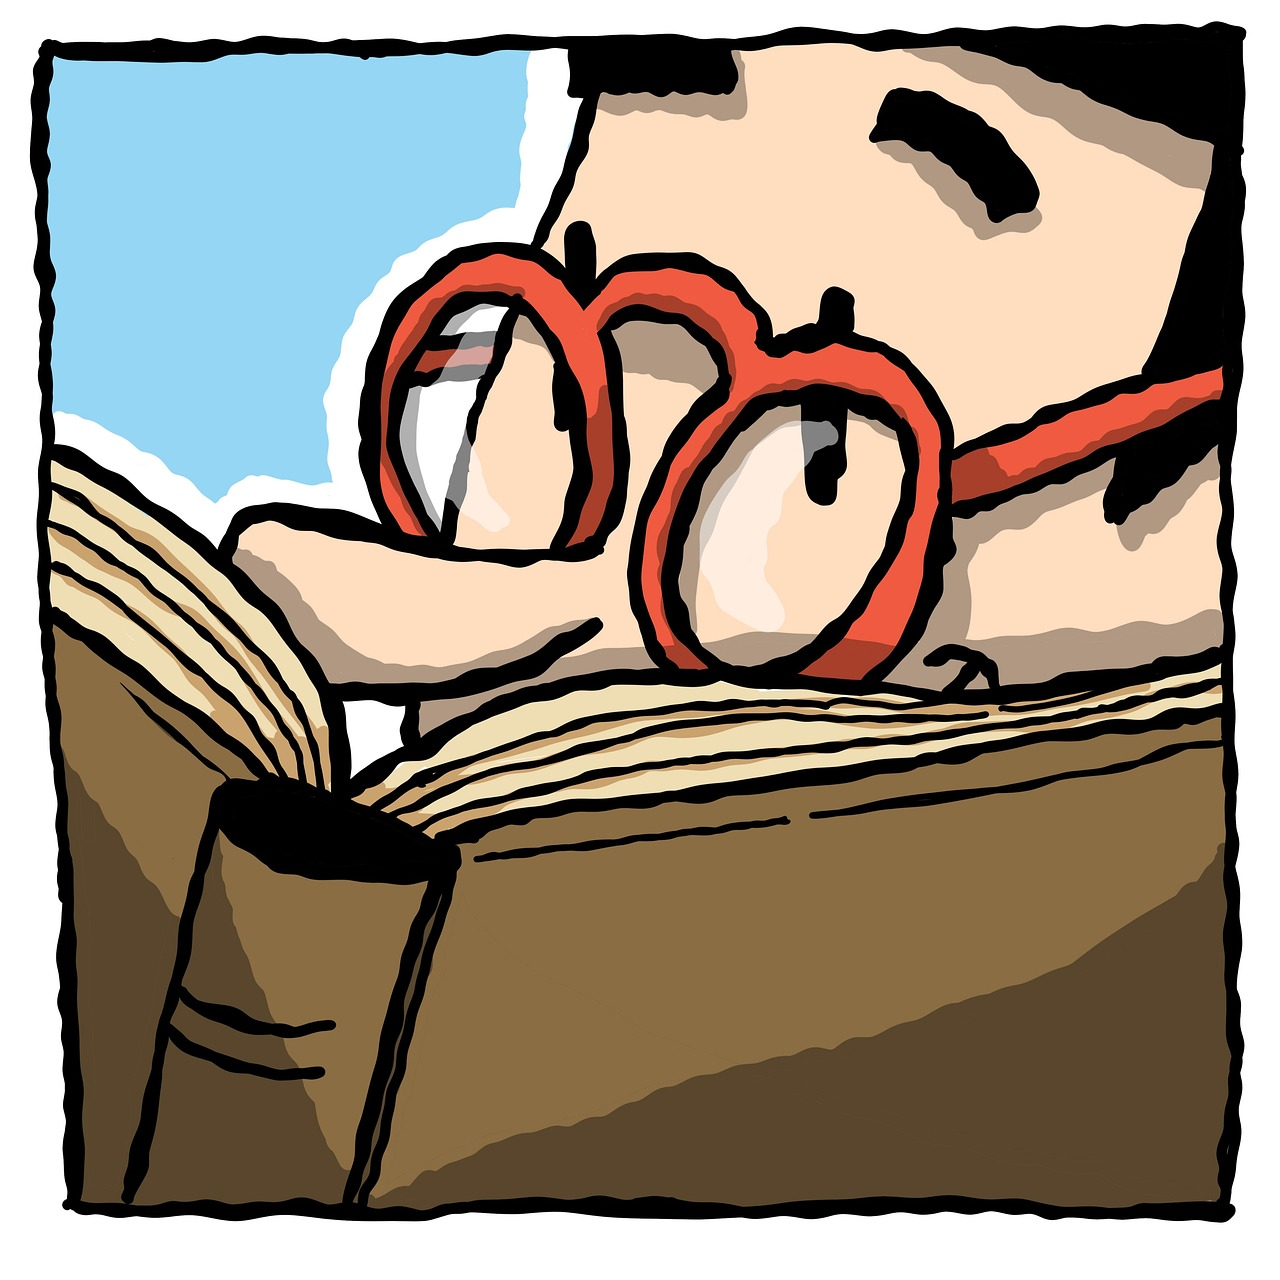
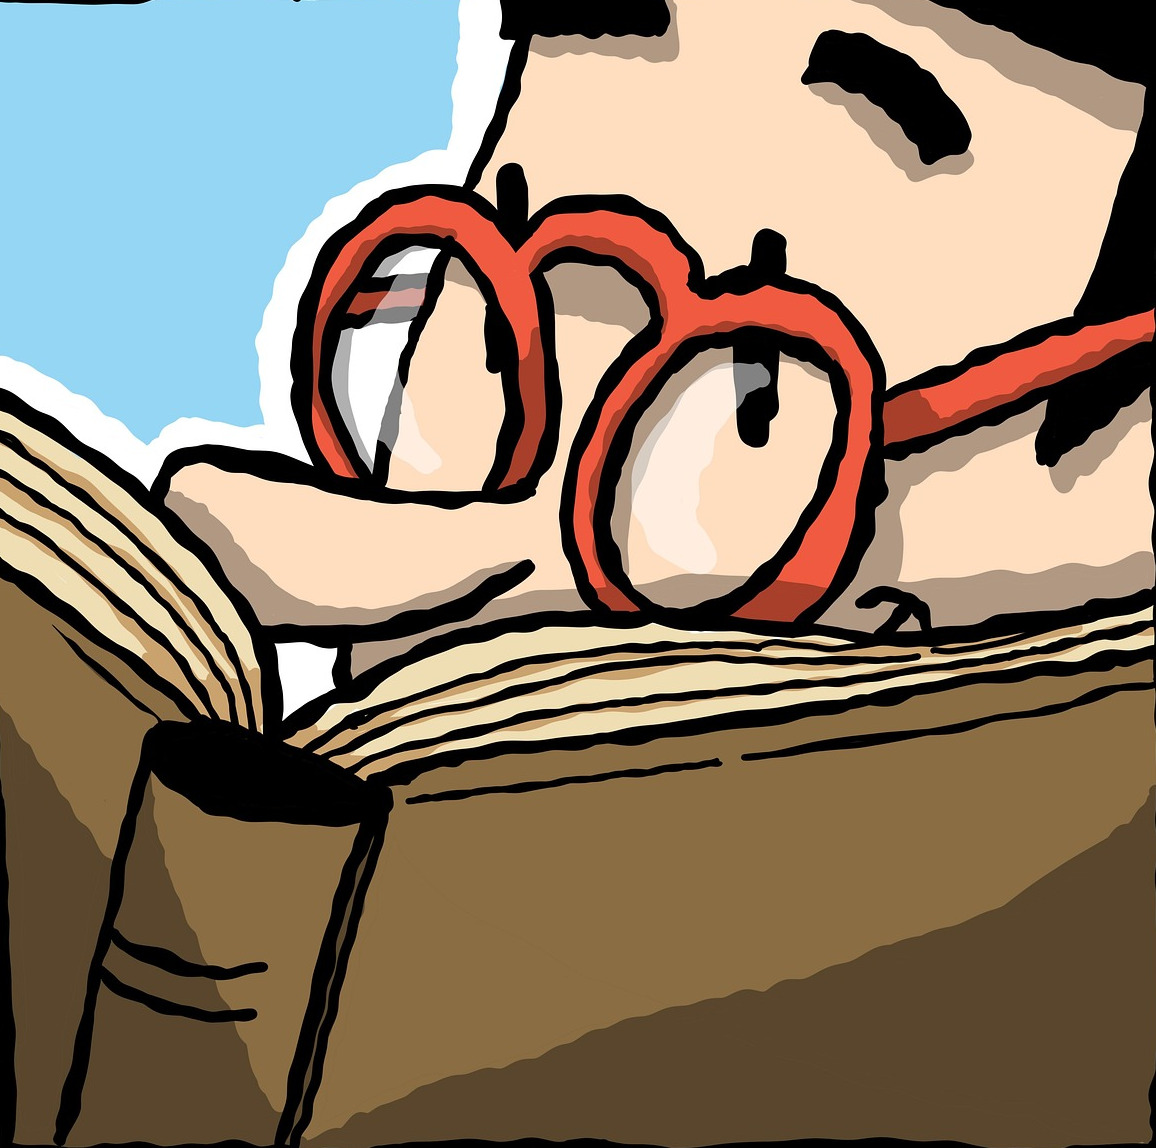
fix: css and image cropping for home/index page.
fixed page responsiveness as well.

diff --git a/public/styles.css b/public/styles.css
@@ -116,12 +116,11 @@ nav {
 .indexImgAndParaContainer img {
   max-width: 400px;
   max-height: 400px;
-  width: 100%;
-  height: 100%;
+  width: 400px;
+  height: 400px;
   object-fit: contain;
-  border-radius: 50%;
+  border-radius: 100%;
   border: 10px solid #9290C3;
-  
 }
 
 .mainItemType {
@@ -523,6 +522,13 @@ input:valid, textarea:valid {
   }
 
 
+  .indexImgAndParaContainer img {
+    max-width: 200px;
+    max-height: 200px;
+    width: 200px;
+    height: 200px;
+  }
+
 
   .errorContainer {
     grid-template-columns: 1fr;
@@ -600,7 +606,7 @@ input:valid, textarea:valid {
 
     }
 
-@media (max-width: 500px) {
+@media (max-width: 550px) {
 .navbar, .navbar a button, .navbar button {
   font-size: .5rem;
 }
